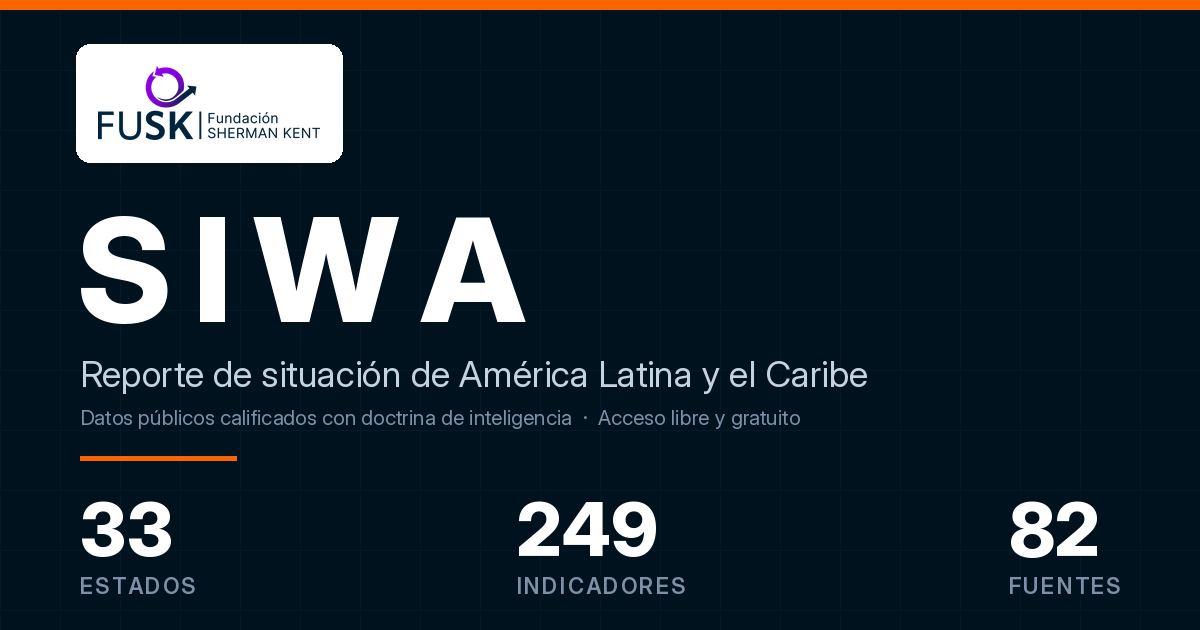
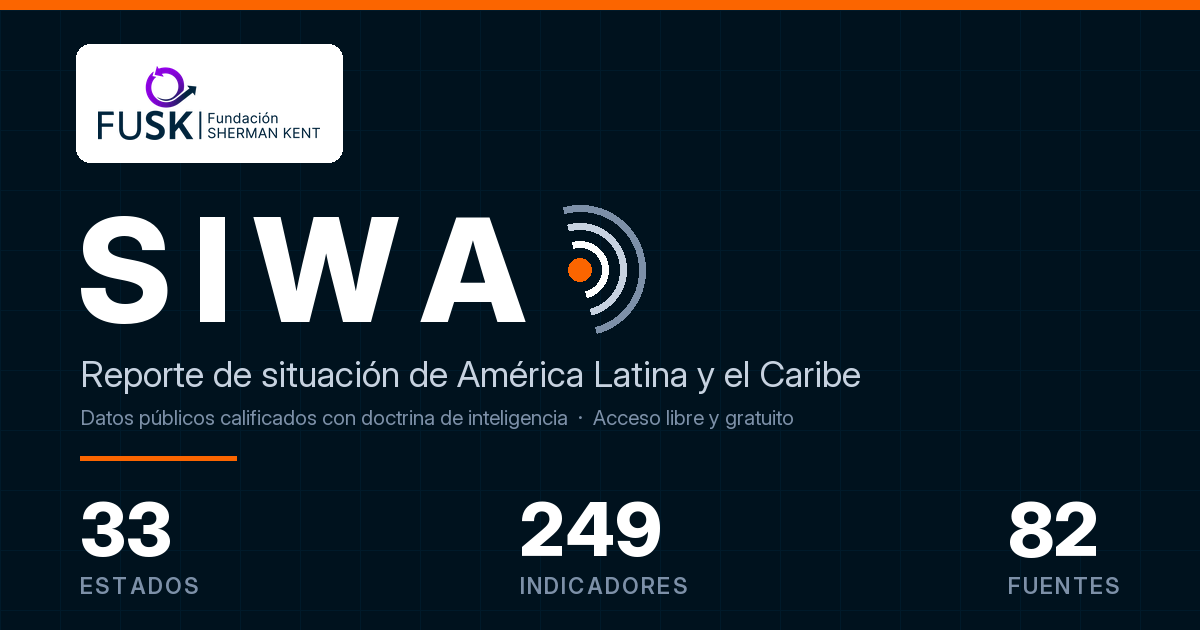
Tarjeta de compartir: isotipo de radar junto a SIWA (prototipo)
Acta 24/09/2026: agrega a la tarjeta de compartir (og:image) el mismo
isotipo de radar de la cabecera, pegado a "SIWA" -tres arcos concentricos
con la misma geometria y giro que sitio/_comun/cabecera-siwa.js, tinta
invertida (blanco/gris claro) para leer sobre el fondo oscuro de la pieza,
mas el punto naranja. Las cifras siguen leyendose en vivo de
cuantos_portada, sin tocar; el logo FUSK en placa blanca queda igual.

diff --git a/herramientas/tarjeta-compartir.py b/herramientas/tarjeta-compartir.py
@@ -62,6 +62,16 @@ LO QUE SE CORRIGIÓ DEL DIBUJO
   la tarjeta entera, con el número grande y el rótulo abajo: es lo que sigue
   legible cuando la miniatura se muestra a 500 px en una lista.
 - **Un solo filete naranja.** Había dos, arriba y abajo; el manual manda uno.
+
+EL ISOTIPO DE RADAR (24/9/2026, PROTOTIPO)
+-------------------------------------------
+Acta del 24/9/2026: la tarjeta lleva el mismo isotipo de radar de la cabecera
+(`sitio/_comun/cabecera-siwa.js`) pegado a «SIWA» —los mismos tres arcos
+concéntricos de 180° y el punto naranja, con el mismo giro de -15°—, pero con
+la tinta invertida porque acá el fondo es oscuro y «SIWA» ya es blanco: el
+arco más cercano al punto va en blanco, los siguientes se apagan hacia el
+gris claro de la casa, y el punto sigue en naranja. Es la misma geometría,
+no un dibujo nuevo. Ver `_radar()`.
 """
 
 from __future__ import annotations
@@ -154,6 +164,35 @@ def _texto(pincel, xy, texto, fuente, relleno, espaciado=0):
     return x - espaciado - xy[0]
 
 
+def _radar(pincel, centro, radio, colores, giro=-15):
+    """El isotipo de radar de la cabecera —tres arcos de 180° + un punto—,
+    con la MISMA geometría que `sitio/_comun/cabecera-siwa.js` dibuja en SVG:
+
+        <circle r="3.2"/>
+        <path d="M0 -8  A8 8 0 0 1 0 8"  />   (arco al 8/18 del radio)
+        <path d="M0 -13 A13 13 0 0 1 0 13"/>  (arco al 13/18 del radio)
+        <path d="M0 -18 A18 18 0 0 1 0 18"/>  (arco al radio completo)
+        <g transform="rotate(-15)">           (mismo giro, -15°)
+
+    `centro` es el punto naranja (el origen de la cabecera); `radio` es el
+    radio del arco exterior (el "18" del SVG); `colores` son los tres arcos,
+    del más cercano al punto al más lejano. En la cabecera el arco cercano es
+    el más oscuro (NAVY, sobre fondo blanco); en la tarjeta el fondo es
+    oscuro, así que la tinta se invierte: el arco cercano va en blanco y el
+    lejano se apaga hacia el gris claro de la casa. El punto sigue naranja.
+    """
+    cx, cy = centro
+    color_r8, color_r13, color_r18 = colores
+    ancho_trazo = max(3, round(radio * (2 / 18)))
+    inicio, fin = -90 + giro, 90 + giro
+    for proporcion, color in ((8 / 18, color_r8), (13 / 18, color_r13), (18 / 18, color_r18)):
+        r = radio * proporcion
+        caja = [cx - r, cy - r, cx + r, cy + r]
+        pincel.arc(caja, start=inicio, end=fin, fill=color, width=ancho_trazo)
+    r_punto = radio * (3.2 / 18)
+    pincel.ellipse([cx - r_punto, cy - r_punto, cx + r_punto, cy + r_punto], fill=NARANJA)
+
+
 def dibujar() -> pathlib.Path:
     c = _cifras()
     lienzo = Image.new("RGB", (ANCHO, ALTO), NAVY)
@@ -180,7 +219,21 @@ def dibujar() -> pathlib.Path:
         lienzo.paste(logo, (MARGEN + aire, 44 + aire), logo)
 
     # «SIWA» funciona como sello, no como palabra: espaciado ancho y peso alto.
-    _texto(pincel, (MARGEN, 182), "SIWA", _letra(144, 800), BLANCO, espaciado=21)
+    fuente_siwa = _letra(144, 800)
+    xy_siwa = (MARGEN, 182)
+    ancho_siwa = _texto(pincel, xy_siwa, "SIWA", fuente_siwa, BLANCO, espaciado=21)
+
+    # El isotipo de radar, pegado a «SIWA» — acta del 24/9/2026. Mismo dibujo
+    # que la cabecera, tinta invertida porque acá el fondo es oscuro. En la
+    # cabecera el icono mide 1em (el tamaño de letra) y su radio exterior, en
+    # el SVG, es 18 de 40 unidades de viewBox: escalado a 1em da un radio
+    # exterior de 0,45 del tamaño de fuente. Se guarda esa misma proporción.
+    caja_siwa = pincel.textbbox(xy_siwa, "SIWA", font=fuente_siwa)
+    centro_y_siwa = (caja_siwa[1] + caja_siwa[3]) / 2
+    radio_radar = round(144 * 0.45)
+    gap_radar = 34
+    centro_radar = (xy_siwa[0] + ancho_siwa + gap_radar + round(radio_radar * 0.3), centro_y_siwa)
+    _radar(pincel, centro_radar, radio_radar, (BLANCO, CLARO, TENUE))
 
     _texto(pincel, (MARGEN + 4, 352),
            "Reporte de situación de América Latina y el Caribe",
